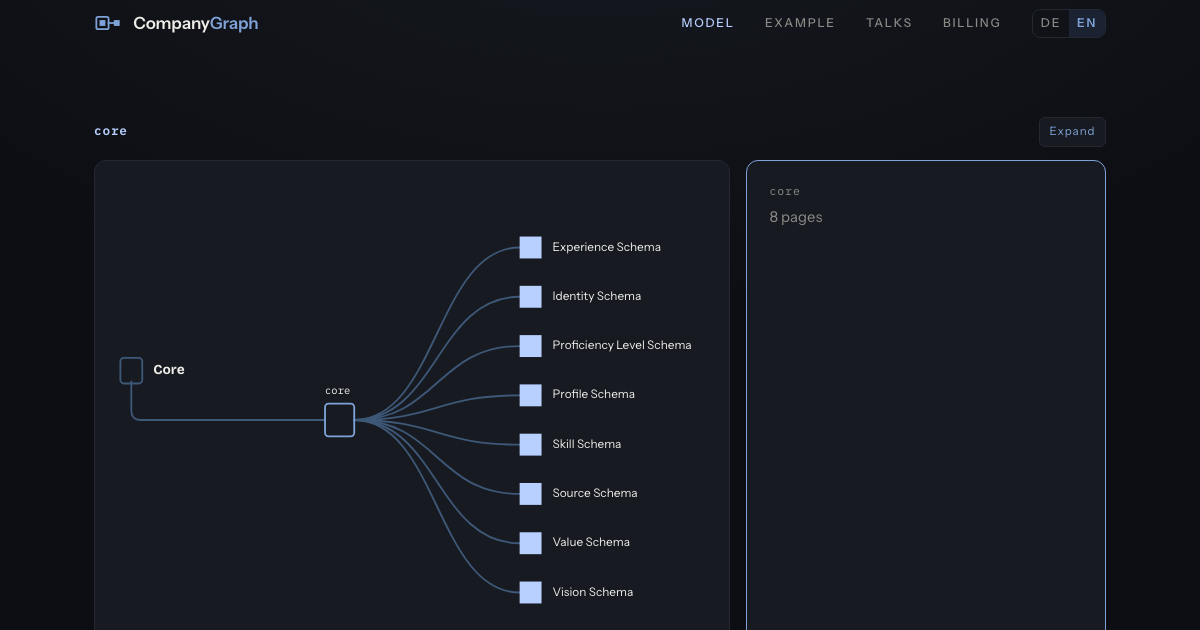
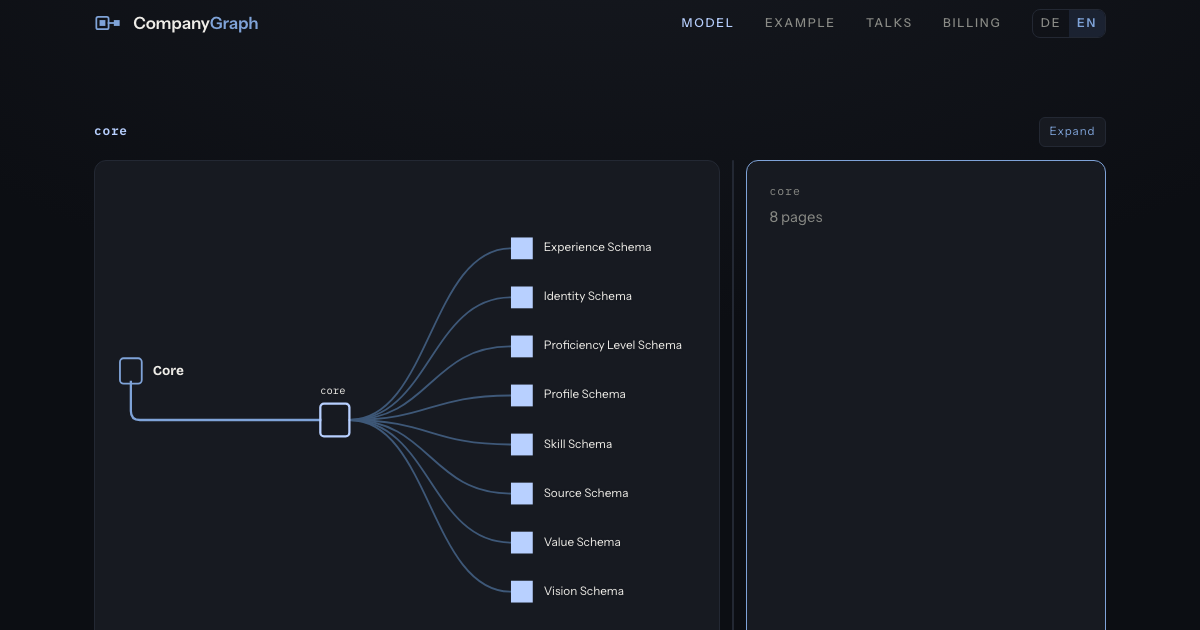
Show the path in the drawing, and let the reader move the divider
Two things the breadcrumb did and the canvas did not.

Context. `spine` was set on the ancestor chain when the neighbourhood was
built, used for geometry, and dropped before it reached the DOM, so the path
from the root to the focus was drawn like any other ownership line. And the
focused node was styled in the same rule as :hover, which meant the one node
you had chosen looked exactly like whichever one your pointer was over. Three
tiers now: the spine and the ancestors it passes through in --c-mid, the focus
ringed in --ink, everything else weak.

The ring is why the focus is not simply --c-firm: every page square already is,
so filling the focused one with the same colour made it one more square among
fifty-eight. A stroke is the one mark nothing else on the canvas wears.

The class is set on the update, not the enter — a link keyed from→to survives a
click, and whether it belongs to the spine depends on where the focus now is.
Setting it only where a path is created left every survivor wearing the answer
to a question asked one focus ago. The check caught that; a hash-loaded page
never would, because everything enters at once.

The divider. 360px is right for a folder's card and wrong for a profile
claiming fifty-eight skills, so the two panes are separated by a handle: drag,
double-click to reset, arrow keys when focused. That is the shape every
two-pane tool a visitor already uses puts between them, and the keyboard is
[…]

diff --git a/stage.js b/stage.js
@@ -375,7 +375,6 @@
     lsel.exit().classed("gone", true).style("pointer-events", "none")
         .transition().duration(D).style("opacity", 0).remove();
     lsel.enter().append("path")
-        .attr("class", function(d){ return d.kind === "own" ? "own" : "ref"; })
         .attr("data-from", function(d){ return d.from; })
         .attr("data-to", function(d){ return d.to; })
         .attr("d", function(d){ return shape(d, pos[d.from], pos[d.to]); })
@@ -383,6 +382,17 @@
     // An update always drives opacity/pointer-events back to their settled state, so an enter
     // fade interrupted by a second click within the transition window still finishes instead
     // of leaving the survivor translucent and unclickable.
+    // `spine` reaches the DOM now — it was set on the ancestor chain when the neighbourhood
+    // was built, used for geometry, and thrown away before it was drawn, so the path from the
+    // root to the focus looked like any other ownership line.
+    //
+    // Classed on the update, not on the enter. A link keyed from→to survives a click, and
+    // whether it is part of the spine depends on where the focus now is: the link into a
+    // folder is an ordinary line until you descend through it, at which point it becomes the
+    // path. Setting the class only where a path is created leaves every survivor wearing the
+    // answer to a question asked one focus ago.
+    lsel.merge(gLink.selectAll("path:not(.gone)"))
+        .attr("class", function(d){ return d.kind === "own" ? (d.spine ? "own spine" : "own") : "ref"; });
     lsel.style("pointer-events", null).transition().duration(D)
         .style("opacity", 1).attr("d", function(d){ return shape(d, pos[d.from], pos[d.to]); });
 
@@ -419,6 +429,7 @@
 
     var all = enter.merge(nsel);
     all.classed("focus", function(d){ return d.role === "focus"; })
+       .classed("ancestor", function(d){ return d.role === "ancestor"; })
        .attr("aria-current", function(d){ return d.role === "focus" ? "true" : null; });
     all.select("rect")
        .attr("class", function(d){ return d.node.kind === "entity" ? "sq" : "box"; })
@@ -629,6 +640,85 @@
   // eyebrows and the folder card are built here, after that pass, so they follow the flag.
   new MutationObserver(function(){ if (focused) { render(); showCard(focused); } })
     .observe(document.documentElement, { attributes:true, attributeFilter:["lang"] });
+
+  // ── the divider ───────────────────────────────────────────────────────────────────────
+  // The details pane is fixed at 360px, which is right for a folder's card and wrong for a
+  // profile claiming fifty-eight skills. A drag handle is what every two-pane tool a visitor
+  // already uses puts between them, so it is what this uses: drag, double-click to reset,
+  // arrow keys when focused.
+  //
+  // The width is remembered, and clamped on the way back in. A number dragged wide on a large
+  // monitor would otherwise swallow the canvas on a laptop, and the same clamp handles a
+  // window resized after the page loaded. The key is a constant here rather than the page's:
+  // this file is byte-identical on every site that draws a stage and knows none of their
+  // names, and localStorage is per-origin, so one name cannot collide with another site's.
+  var CARD_KEY = "cg-stage-card", CARD_DEFAULT = 360, CARD_MIN = 280, CANVAS_MIN = 320;
+  var gutter = document.getElementById("gutter");
+  function cardWidth(){ return stageEl.querySelector(".card").getBoundingClientRect().width; }
+  function cardLimit(){
+    var stage = stageEl.getBoundingClientRect().width;
+    var canvas = stageEl.querySelector(".canvas").getBoundingClientRect().width;
+    // Everything between and around the two panes — the handle and the grid's gaps — measured
+    // rather than assumed. Subtracting a hard-coded handle width left the canvas 16px under
+    // its floor, because the grid has two gaps and the arithmetic knew about neither.
+    var chrome = stage - canvas - cardWidth();
+    // On a narrow box the floor wins and this collapses to one legal value, which is the
+    // honest answer rather than a negative one.
+    return Math.max(CARD_MIN, stage - CANVAS_MIN - chrome);
+  }
+  function setCard(px, remember){
+    var w = Math.round(Math.min(cardLimit(), Math.max(CARD_MIN, px)));
+    stageEl.style.setProperty("--card-w", w + "px");
+    if (remember) { try { localStorage.setItem(CARD_KEY, String(w)); } catch (e) {} }
+    return w;
+  }
+  if (gutter) {
+    var stored = null;
+    try { stored = parseInt(localStorage.getItem(CARD_KEY), 10); } catch (e) {}
+    if (stored) setCard(stored, false);
+
+    var dragFrom = 0, dragWidth = 0;
+    gutter.addEventListener("pointerdown", function(ev){
+      dragFrom = ev.clientX; dragWidth = cardWidth();
+      gutter.setPointerCapture(ev.pointerId);
+      gutter.classList.add("dragging");
+      ev.preventDefault();
+    });
+    gutter.addEventListener("pointermove", function(ev){
+      if (!gutter.classList.contains("dragging")) return;
+      // The details pane is on the right, so dragging left widens it.
+      setCard(dragWidth - (ev.clientX - dragFrom), false);
+      render();
+    });
+    function endDrag(){
+      if (!gutter.classList.contains("dragging")) return;
+      gutter.classList.remove("dragging");
+      setCard(cardWidth(), true);
+    }
+    gutter.addEventListener("pointerup", endDrag);
+    gutter.addEventListener("pointercancel", endDrag);
+    // Double-click restores the default and forgets the stored one, the way a devtools split
+    // does — otherwise the only way back to the original is to drag until it looks right.
+    gutter.addEventListener("dblclick", function(){
+      try { localStorage.removeItem(CARD_KEY); } catch (e) {}
+      setCard(CARD_DEFAULT, false); render();
+    });
+    gutter.addEventListener("keydown", function(ev){
+      var step = ev.key === "ArrowLeft" ? 16 : ev.key === "ArrowRight" ? -16 : 0;
+      if (!step) return;
+      ev.preventDefault();
+      setCard(cardWidth() + step, true); render();
+    });
+    // On resize, re-apply what was asked for rather than what is currently shown: a width
+    // clamped down on a narrow window should come back when the window has room again. The
+    // stored number is the preference; the rendered one is only what last fitted.
+    window.addEventListener("resize", function(){
+      var want = null;
+      try { want = parseInt(localStorage.getItem(CARD_KEY), 10); } catch (e) {}
+      setCard(want || CARD_DEFAULT, false);
+    });
+  }
+
   window.addEventListener("resize", function(){ if (focused) render(); });
   window.addEventListener("hashchange", function(){
     var id = decodeURIComponent(location.hash.slice(1));

diff --git a/stage.css b/stage.css
@@ -12,8 +12,11 @@
   .stagehead{display:flex; align-items:baseline; justify-content:space-between; gap:1rem}
   .path{min-height:1.4em; font-size:.8rem; letter-spacing:.06em; color:var(--dim)}
   .path b{color:var(--c-firm); font-weight:600}
-  .stage{margin-top:.8rem; height:clamp(520px,62vh,720px); display:grid;
-         grid-template-columns:minmax(0,1fr) 360px; gap:1rem}
+  /* Three columns: canvas, the handle between them, details. The details width is a custom
+     property so one line of script can move it and every layout that reads it follows —
+     including the dialog, which is the same .stage element moved, not a second one. */
+  .stage{--card-w:360px; margin-top:.8rem; height:clamp(520px,62vh,720px); display:grid;
+         grid-template-columns:minmax(0,1fr) 10px var(--card-w); gap:.5rem}
   .canvas{position:relative; overflow:hidden; border:1.5px solid var(--rule); border-radius:12px; background:var(--raise)}
   /* No cursor at rest. The primary act on this canvas is clicking a node, not dragging the
      space between them, and a permanent grab hand advertises the wrong one — every canvas a
@@ -27,6 +30,17 @@
             background:var(--raise); color:var(--c-mid); border:1px solid var(--rule); border-radius:6px;
             padding:.35rem .6rem; cursor:pointer}
   .recenter:hover, .recenter:focus-visible{border-color:var(--c-mid)}
+  /* A drag handle wide enough to hit — 10px — with a 1px rule drawn down its middle, which
+     is the shape every resizable pane a visitor already knows has: an editor's sidebar, a
+     devtools split, a Finder column. It is a real separator to the accessibility tree and it
+     takes the keyboard, because a control that can only be dragged cannot be reached at all
+     by someone who does not drag. */
+  .gutter{align-self:stretch; position:relative; cursor:col-resize; border:0; padding:0;
+          background:none; touch-action:none}
+  .gutter::before{content:""; position:absolute; inset:0 4px; background:var(--rule);
+                  border-radius:1px; transition:background-color .15s ease}
+  .gutter:hover::before, .gutter:focus-visible::before, .gutter.dragging::before{background:var(--c-mid)}
+  .gutter:focus{outline:none}
   .card{display:flex; flex-direction:column; min-height:0; border:1.5px solid var(--c-mid); border-radius:12px; background:var(--raise)}
   .cbody{flex:1; min-height:0; overflow:auto; padding:1.3rem 1.4rem}
   .cfoot{border-top:1px solid var(--rule); padding:.8rem 1.4rem; min-height:2.6rem;
@@ -73,7 +87,9 @@
        widest min-content of the items in it, and the card's is a table of quoted field
        names. On a phone that pushed the one column past the shell and scrolled the whole
        document sideways. The card scrolls inside itself instead — .cbody already does. */
+    /* One column below this width, so there is nothing to divide and no handle to show. */
     .stage{height:auto; grid-template-columns:minmax(0,1fr)}
+    .gutter{display:none}
     .canvas{height:52vh; min-height:360px}
     .card{height:44vh; min-height:300px}
   }
@@ -111,7 +127,7 @@
      Turned into nothing rather than removed, so the same element still exists to move back. */
   .modal .expand{display:none}
   .modal .stage{flex:1 1 auto; min-height:0; height:auto; margin-top:.8rem;
-                grid-template-columns:minmax(0,1fr) 400px}
+                grid-template-columns:minmax(0,1fr) 10px var(--card-w)}
   @media (max-width: 860px){
     /* The fixed vh splits below are sized for the page, which can scroll; the dialog
        cannot, so its two regions split the box's own remaining height instead — the card
@@ -119,6 +135,7 @@
        taking every pixel left over. A percentage split shrank the canvas below its
        on-page size on a short viewport, which is Expand doing the opposite of its job. */
     .modal .stage{display:flex; flex-direction:column; height:auto}
+    .modal .gutter{display:none}
     .modal .canvas{height:auto; flex:1 1 auto; min-height:200px}
     .modal .card{height:auto; flex:0 0 230px; min-height:0}
     /* On a phone .shell's own 7vw side padding is already narrow, so the dialog needs
@@ -135,8 +152,26 @@
   #fig .box{fill:none; stroke:var(--c-weak); stroke-width:2}
   #fig .sq{fill:var(--c-firm)}
   #fig .n{cursor:pointer}
-  #fig .n:hover .box, #fig .n:focus-visible .box, #fig .n.focus .box{stroke:var(--c-mid)}
-  #fig .n:hover .sq, #fig .n:focus-visible .sq, #fig .n.focus .sq{fill:var(--c-mid)}
+
+  /* Where you are, and how you got here. The breadcrumb prints the path and marks its last
+     segment; the drawing said neither, because `spine` never reached the DOM and the focused
+     node wore hover's own colour. Three tiers now, and the path is the thing that carries
+     them: the spine from the root to the focus, the ancestors it passes through, and the
+     focus at the end of it.
+
+     Hover keeps --c-mid and adds width, so it is still felt on a node that already carries a
+     colour — an ancestor. That is what makes the tiers survive a pointer moving over them. */
+  #fig .own.spine{stroke:var(--c-mid); stroke-width:2.5}
+  #fig .n.ancestor .box{stroke:var(--c-mid)}
+  #fig .n.ancestor .sq{fill:var(--c-mid)}
+  /* The focus is ringed, not recoloured. Every page square is already --c-firm, so filling
+     the focused one with the same colour made it one more square among fifty-eight; a ring in
+     the page's strongest ink is the one mark nothing else on the canvas wears. The folder
+     outline can just brighten, because no other box is --c-firm. */
+  #fig .n.focus .box{stroke:var(--c-firm); stroke-width:2.5}
+  #fig .n.focus .sq{fill:var(--c-firm); stroke:var(--ink); stroke-width:2}
+  #fig .n:hover .box, #fig .n:focus-visible .box{stroke:var(--c-mid); stroke-width:3}
+  #fig .n:hover .sq, #fig .n:focus-visible .sq{fill:var(--c-mid)}
   #fig .n:focus:not(:focus-visible){outline:none}
   #fig text{fill:var(--ink); font-family:"Instrument Sans", ui-sans-serif, system-ui, sans-serif; font-size:13px; dominant-baseline:middle}
   #fig text.folder, #fig text.attr, #fig text.eyebrow{font-family:"Plex Mono",monospace; font-size:11.5px}

diff --git a/example/index.html b/example/index.html
@@ -394,6 +394,8 @@
           <svg id="fig" role="group" aria-labelledby="figcap"></svg>
           <button class="recenter" id="recenter" type="button" data-de="zentrieren">recenter</button>
         </div>
+        <button class="gutter" id="gutter" type="button"
+                aria-label="Resize the details panel" data-de-aria="Detailbereich verkleinern oder vergrössern"></button>
         <aside class="card" id="card" aria-live="polite">
           <div class="cbody" id="cbody"></div>
           <div class="cfoot" id="cfoot">

diff --git a/model/index.html b/model/index.html
@@ -396,6 +396,8 @@
           <svg id="fig" role="group" aria-labelledby="figcap"></svg>
           <button class="recenter" id="recenter" type="button" data-de="zentrieren">recenter</button>
         </div>
+        <button class="gutter" id="gutter" type="button"
+                aria-label="Resize the details panel" data-de-aria="Detailbereich verkleinern oder vergrössern"></button>
         <aside class="card" id="card" aria-live="polite">
           <div class="cbody" id="cbody"></div>
           <div class="cfoot" id="cfoot">
